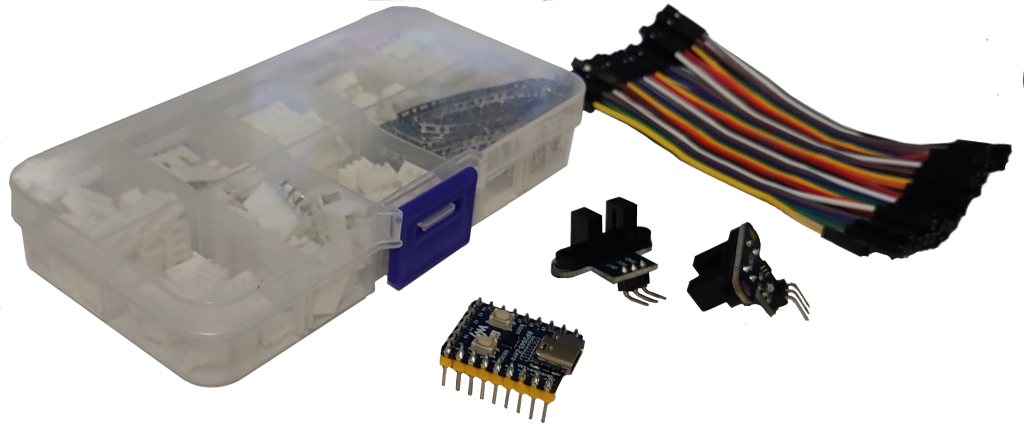
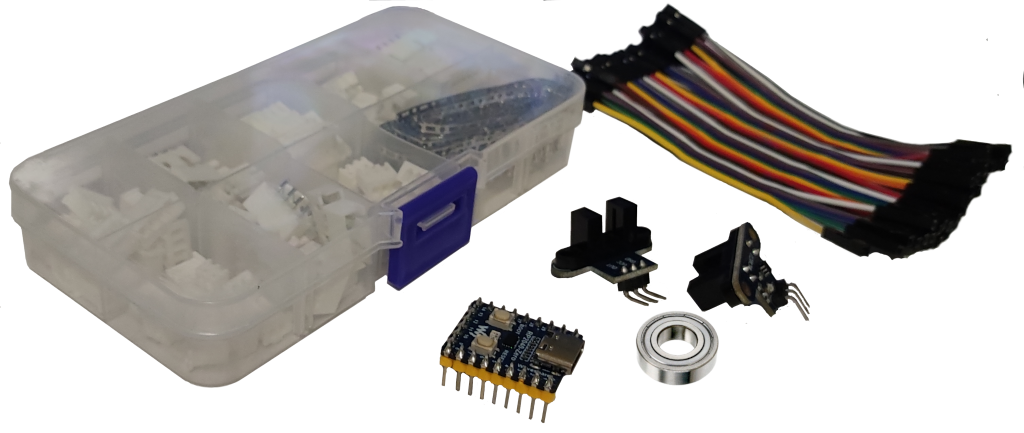
Update docs

Changed region(s): [[0.5938, 0.7206, 0.7188, 0.9007]]

diff --git a/doc/README.md b/doc/README.md
@@ -1,15 +1,16 @@
 About
 ===
 
-The Smart Filament Sensor it's just my attempt to implement fully backward compatible sensor with my 'Creality CR10 Smart' 3D printer. I know about existing smart sensors, but almost all of these sensors require flashing by own-compiled firmware with changing sensor settings. In general, I like to upgrade firmwares by usual way from 'Creality support' site, so the project should replace stock filament sensor by little bit smarter without touching the firmware.
+The Smart Filament Sensor it's just my attempt to implement fully backward compatible sensor with my 'Creality CR10 Smart' 3D printer. I know about existing smart sensors, but almost all of these sensors require flashing by own-compiled firmware with changing sensor settings. My sensor is ully compatible with stock filament sensor and doesn't require any own-compiled firmwares (but you may use the firmwares as well and without any restrictions).
 
 Main idea
 ---
 
 So, there is a stock sensor for my printer:
+
 ![Stock sensor](img/001.StockSensor.png)
 
-The sensor is very simple: has just a microswitch inside and has only one function: to alarm if the microswitch isn't pressed  by a filament. In general, it's okay, but there are few cases when it isn't enough:
+The sensor is very simple: has just a microswitch inside and has only one function: to alarm if the microswitch isn't pressed  by a filament. Frankly speaking, the sensor has a optical sensor with some small circuit inside, but it implemented like a simple and stupid micriswitch. In general, it's okay, but there are few cases when it isn't enough:
 
 - The filament may stuck for some reasons. Eg. it may be get tangled in a coil before a sensor or it may be deformed and jammed by feed gear in extruder due to a lot of retractions in small amount of time.
 - A diameter of the filament may be unstable (especially for self-made filaments like in my case). Or the filament may be severely bent or dented. In this case  microswitch may be switched off due to insufficient filament pressure on the lever and your 3D-printer may think that filament ended, and the printer stucks until you pass 'Changing filement' ceremony. 
@@ -45,14 +46,23 @@ In general, all what I bought is:
 - Two movement optical sensors
 - a set of wires
 - XH2,54 Connector Terminal Kit... to be honest, I only need one 3pin 'mother' connector but it's hard to find just one, so it's easy to buy a kit... maybe it will come in handy in my other projects, yeah
+- bearing 625ZZ 5x16x5 mm
 
 All these stuff I bought on AliExpress. I don't sure is it makes sence to post links here as these links may be outdated and you might end up with funny '404 not found' page... but there are links nonetheless:
 - https://pl.aliexpress.com/item/32735930193.html
 - https://pl.aliexpress.com/item/1005004310502426.html
 - https://pl.aliexpress.com/item/32909050779.html
 - https://pl.aliexpress.com/item/1005004281549886.html
-
+- https://www.aliexpress.com/item/32719052164.html
+  
 If any of the links don't work, please let me know via a pull request, huh.
+
+You may already have the following stuff:
+
+![other requirements](img/005.OtherRequirements.png)
+- latex medical gloves (you may buy it in any pharmacy or a shop)
+- elastic rubber bands (frankly speaking, I never bought it. The rubber bands always present in my house, I don't know from)
+- disposable packing wire (we usually throw it in the trash can). It can be found when you buying new electrical products with power wires - the packaging wire prevents twisted wires from unwinding inside the package.
 
 In additional, it would be great if you knew a little about the soldering iron...
 
@@ -61,12 +71,6 @@ And, of course, it would be great if you had a 3D printer as some parts of this 
 Software
 ---
 
-If you only want to assembly the Smart Filament Sensor, then you don't need any additional software. Download only the [latest releases](../releases/)  files and follow step-by-step instruction.
+If you only want to assembly the Smart Filament Sensor, then you don't need any additional software. Download only the [latest releases](../releases/)  files and follow [step-by-step](Step-by-step.md) instruction.
 
 If you want to contribute the project (eg, if you want to improve existing source codes or to add support of STM32 or Arduino boards), please follow [Development](Development.md) instructions
-
-Step-by-step instruction
-===
-
-to be continued...
-

diff --git a/doc/Step-by-step.md b/doc/Step-by-step.md
@@ -1,0 +1,33 @@
+Step-by-step instruction
+===
+I suppose, you have bought all needed stuff and downloaded all needed files from the project at this moment, isn't it? If no - please read the [manual](README.md) again more carefully... :)
+
+So first step is: to 3D-print all parts of the SmartFilamentSensor. I  printed these parts by 0.4 mm nozzle:
+
+![Sensor body](img/101.SensorBody.png)
+![Sensor Wheel Support](img/103.SensorWheelSupport.png)
+![Engine Sensor Body](img/104.EngineSensorBody.png)
+
+and these parts were printed by 0.2 mm nozzle for greater accuracy: 
+
+![Engine Shaft Wheel](img/105.EngineShaftWheel.png)
+![Sensor Wheel](img/102.SensorWheel.png)
+
+Next, cut by scissors a rubber ring from latex medical gloves:
+
+![rubber ring](img/106.RubberRing.png)
+
+stretch the rubber ring over the highlighted surface of sensor wheel:
+
+![highlighted surface](img/107.RubberRingOnAWheel.png)
+
+this is necessary to prevent filament slippage and better friction.
+
+Put a bearing on the filament wheel. I also put a drop of superglue here, just in case:
+
+![Wheel And Bearing](img/108.WheelAndBearing.png)
+
+Put the bearing into the wheel suport:
+
+![Wheel And Support](img/109.WheelAndSupport.png)
+
